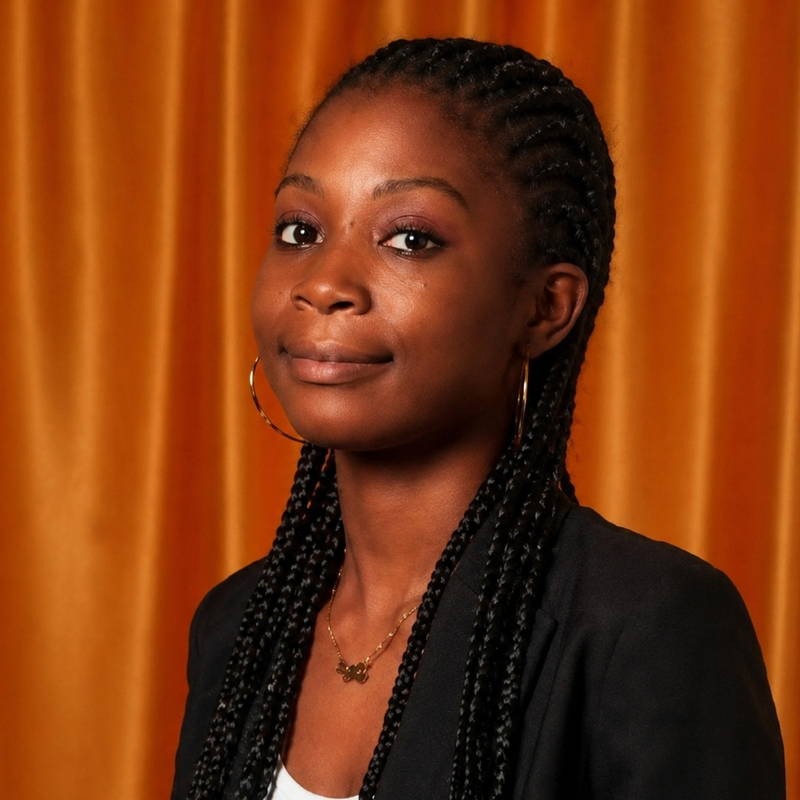
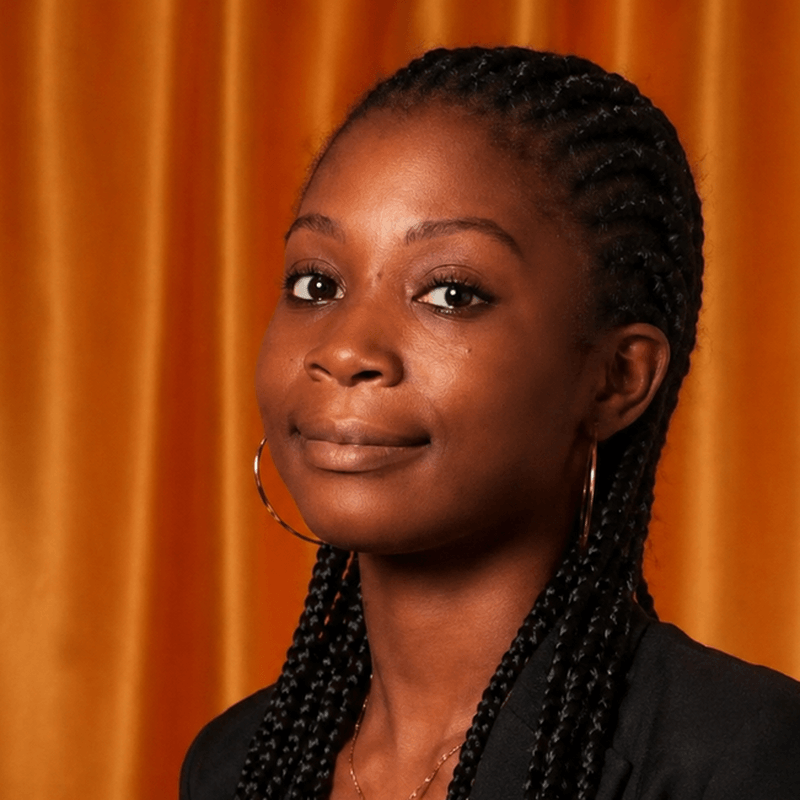
Add files via upload

diff --git a/index.html b/index.html
@@ -6,19 +6,19 @@
   <title>Linda Anagonou · Community Manager</title>
 
   <!-- Aperçu de lien (Facebook, WhatsApp, Instagram, LinkedIn, etc.) -->
-  <!-- Le "?v=2" force les réseaux sociaux à ignorer leur ancien aperçu en cache.
+  <!-- Le "?refresh=1" force les réseaux sociaux à ignorer leur ancien aperçu en cache.
        Pense à l'incrémenter (v=3, v=4...) si tu changes encore l'image plus tard. -->
   <meta property="og:type" content="profile">
   <meta property="og:title" content="Akuavi Rosaline Linda Anicette Anagonou · Community Manager">
   <meta property="og:description" content="Community manager créative et orientée résultats : animation des réseaux sociaux, création de contenu et media buying.">
-  <meta property="og:image" content="https://linda-9193.onrender.com/assets/images/profile.png?v=3">
+  <meta property="og:image" content="https://linda-9193.onrender.com/assets/images/profile.png?refresh=1">
   <meta property="og:image:width" content="800">
   <meta property="og:image:height" content="800">
-  <meta property="og:url" content="https://linda-9193.onrender.com/?v=2">
+  <meta property="og:url" content="https://linda-9193.onrender.com/?refresh=1">
   <meta name="twitter:card" content="summary">
   <meta name="twitter:title" content="Akuavi Rosaline Linda Anicette Anagonou · Community Manager">
   <meta name="twitter:description" content="Community manager créative et orientée résultats : animation des réseaux sociaux, création de contenu et media buying.">
-  <meta name="twitter:image" content="https://linda-9193.onrender.com/assets/images/profile.png?v=2">
+  <meta name="twitter:image" content="https://linda-9193.onrender.com/assets/images/profile.png?refresh=1">
 
   <link rel="stylesheet" href="https://cdnjs.cloudflare.com/ajax/libs/font-awesome/6.5.0/css/all.min.css">
   <link rel="stylesheet" href="styles/home/main.css">
